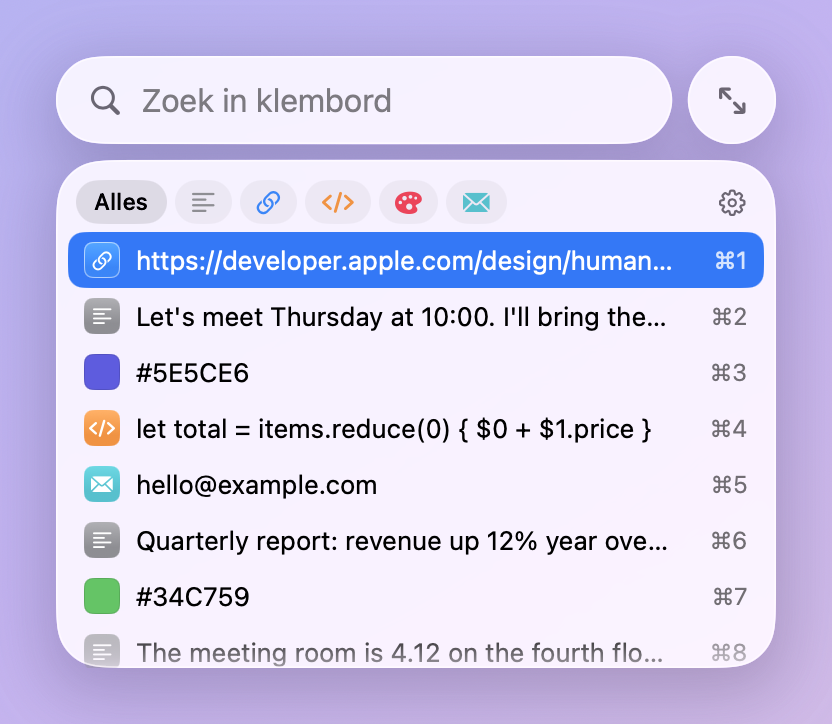
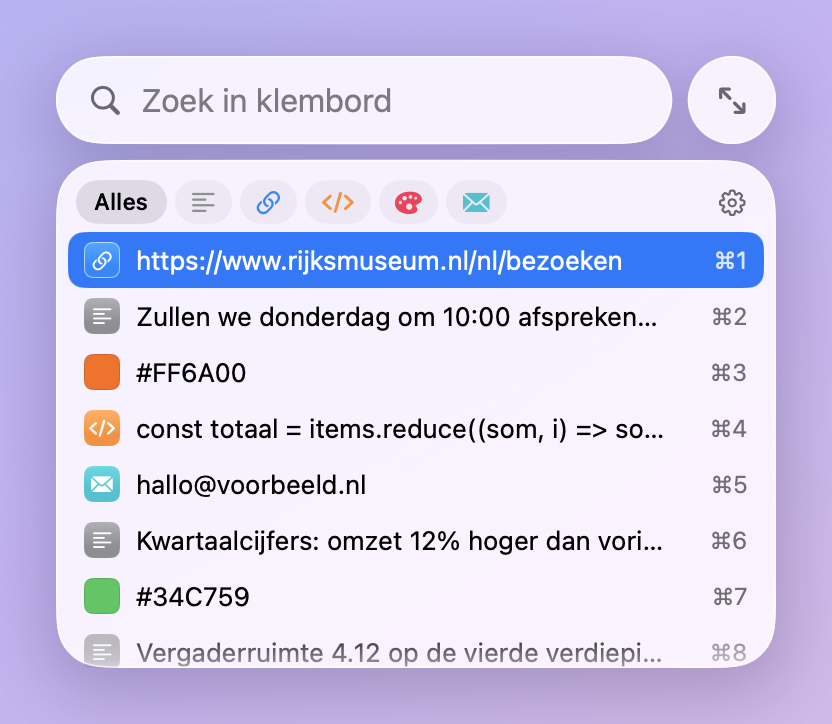
Dutch preview image with sample data; demo mode speaks Dutch too

diff --git a/Scripts/make-preview.swift b/Scripts/make-preview.swift
@@ -1,0 +1,104 @@
+// Composes docs/preview.nl.png: the collapsed and expanded popup side by side, plus the main features.
+// Run Scripts/screenshot.sh first, then: swift Scripts/make-preview.swift
+
+import AppKit
+
+let root = URL(fileURLWithPath: CommandLine.arguments[0]).deletingLastPathComponent().deletingLastPathComponent()
+let docs = root.appendingPathComponent("docs")
+guard let compact = NSImage(contentsOf: docs.appendingPathComponent("screenshot-compact.nl.png")),
+      let expanded = NSImage(contentsOf: docs.appendingPathComponent("screenshot-expanded.nl.png")),
+      let compactRep = compact.representations.first, let expandedRep = expanded.representations.first
+else { fatalError("Run Scripts/screenshot.sh first") }
+
+let W: CGFloat = 2600, H: CGFloat = 1960, pad: CGFloat = 140
+let rep = NSBitmapImageRep(bitmapDataPlanes: nil, pixelsWide: Int(W), pixelsHigh: Int(H), bitsPerSample: 8,
+                           samplesPerPixel: 4, hasAlpha: true, isPlanar: false, colorSpaceName: .deviceRGB,
+                           bytesPerRow: 0, bitsPerPixel: 0)!
+NSGraphicsContext.saveGraphicsState()
+NSGraphicsContext.current = NSGraphicsContext(bitmapImageRep: rep)
+
+// Top-left coordinates make the layout easier to read.
+func rect(_ x: CGFloat, _ y: CGFloat, _ w: CGFloat, _ h: CGFloat) -> NSRect { NSRect(x: x, y: H - y - h, width: w, height: h) }
+
+// Background: soft off-white with a faint lilac glow, like the screenshots' backdrop.
+NSColor(red: 0.965, green: 0.965, blue: 0.975, alpha: 1).setFill()
+NSRect(x: 0, y: 0, width: W, height: H).fill()
+let glowCenter = NSPoint(x: W / 2, y: H - 150)
+NSGradient(colors: [NSColor(red: 0.80, green: 0.78, blue: 1.0, alpha: 0.6), NSColor(red: 0.80, green: 0.78, blue: 1.0, alpha: 0)])!
+    .draw(fromCenter: glowCenter, radius: 0, toCenter: glowCenter, radius: 1100, options: [])
+
+func text(_ s: String, size: CGFloat, weight: NSFont.Weight, color: NSColor, at r: NSRect, align: NSTextAlignment = .left) {
+    let style = NSMutableParagraphStyle()
+    style.alignment = align
+    style.lineSpacing = size * 0.18
+    NSAttributedString(string: s, attributes: [.font: NSFont.systemFont(ofSize: size, weight: weight),
+                                               .foregroundColor: color, .paragraphStyle: style]).draw(in: r)
+}
+
+// Title
+if let icon = NSImage(contentsOf: root.appendingPathComponent("Resources/AppIcon.icns")) {
+    icon.draw(in: rect(W / 2 - 400, pad - 6, 132, 132))
+}
+text("Control+C", size: 100, weight: .bold, color: .black, at: rect(W / 2 - 250, pad + 2, 800, 130))
+text("Je klembordgeschiedenis, één sneltoets weg.", size: 46, weight: .regular,
+     color: NSColor(white: 0.35, alpha: 1), at: rect(0, pad + 170, W, 70), align: .center)
+
+// Screenshots: equal height, side by side, each in a rounded frame with a soft shadow.
+let shotH: CGFloat = 900, gap: CGFloat = 90, top: CGFloat = pad + 320
+let cw = shotH * CGFloat(compactRep.pixelsWide) / CGFloat(compactRep.pixelsHigh)
+let ew = shotH * CGFloat(expandedRep.pixelsWide) / CGFloat(expandedRep.pixelsHigh)
+let startX = (W - cw - gap - ew) / 2
+
+func framed(_ image: NSImage, _ r: NSRect) {
+    let path = NSBezierPath(roundedRect: r, xRadius: 36, yRadius: 36)
+    NSGraphicsContext.saveGraphicsState()
+    let shadow = NSShadow()
+    shadow.shadowColor = NSColor.black.withAlphaComponent(0.18)
+    shadow.shadowBlurRadius = 50
+    shadow.shadowOffset = NSSize(width: 0, height: -18)
+    shadow.set()
+    NSColor.white.setFill()
+    path.fill()
+    NSGraphicsContext.restoreGraphicsState()
+    NSGraphicsContext.saveGraphicsState()
+    path.addClip()
+    image.draw(in: r)
+    NSGraphicsContext.restoreGraphicsState()
+}
+
+framed(compact, rect(startX, top, cw, shotH))
+framed(expanded, rect(startX + cw + gap, top, ew, shotH))
+
+let labelColor = NSColor(white: 0.45, alpha: 1)
+text("Ingeklapt", size: 34, weight: .semibold, color: labelColor, at: rect(startX, top + shotH + 34, cw, 50), align: .center)
+text("Uitgeklapt  ·  Tab", size: 34, weight: .semibold, color: labelColor,
+     at: rect(startX + cw + gap, top + shotH + 34, ew, 50), align: .center)
+
+// Features: 3 × 2 grid of Settings-style glyphs with a title and one line.
+let features: [(String, NSColor, String, String)] = [
+    ("bolt.fill", .systemBlue, "Direct bij je cursor", "Druk ⌘↩ en de popup staat meteen onder je tekstcursor."),
+    ("text.viewfinder", .systemPurple, "Zoeken in screenshots", "Tekst in afbeeldingen wordt herkend, op je eigen Mac."),
+    ("square.grid.2x2.fill", .systemOrange, "Kleur per type", "Tekst, links, code, kleuren en e-mail, met filters."),
+    ("lock.fill", .systemGreen, "Privé", "Niets verlaat je Mac. Wachtwoorden worden overgeslagen."),
+    ("keyboard.fill", .systemPink, "Alles met het toetsenbord", "↩ plakt, ⌘1–9 kiest direct, ⌘⌫ verwijdert, ⌘Z herstelt."),
+    ("gearshape.fill", .systemGray, "Zoals jij het wilt", "Eigen sneltoets, bewaartermijn en uitgesloten apps."),
+]
+let gridTop = top + shotH + 150, colW = (W - pad * 2) / 3, rowH: CGFloat = 200
+for (i, f) in features.enumerated() {
+    let x = pad + CGFloat(i % 3) * colW + 30, y = gridTop + CGFloat(i / 3) * rowH
+    let box = rect(x, y, 96, 96)
+    let squircle = NSBezierPath(roundedRect: box, xRadius: 24, yRadius: 24)
+    NSGradient(colors: [f.1.blended(withFraction: 0.18, of: .white)!, f.1])!.draw(in: squircle, angle: -90)
+    let config = NSImage.SymbolConfiguration(pointSize: 44, weight: .semibold).applying(.init(paletteColors: [.white]))
+    if let glyph = NSImage(systemSymbolName: f.0, accessibilityDescription: nil)?.withSymbolConfiguration(config) {
+        let g = glyph.size
+        glyph.draw(in: NSRect(x: box.midX - g.width / 2, y: box.midY - g.height / 2, width: g.width, height: g.height))
+    }
+    text(f.2, size: 38, weight: .semibold, color: .black, at: rect(x + 130, y + 2, colW - 170, 52))
+    text(f.3, size: 30, weight: .regular, color: NSColor(white: 0.4, alpha: 1), at: rect(x + 130, y + 54, colW - 170, 90))
+}
+
+NSGraphicsContext.restoreGraphicsState()
+let out = docs.appendingPathComponent("preview.nl.png")
+try rep.representation(using: .png, properties: [:])!.write(to: out)
+print("Wrote \(out.path)")

diff --git a/Sources/Demo.swift b/Sources/Demo.swift
@@ -8,24 +8,36 @@ extension ClipStore {
     static var demoItems: [ClipItem] {
         let now = Date()
         func ago(_ minutes: Double) -> Date { now.addingTimeInterval(-minutes * 60) }
+        let dutch = Bundle.main.preferredLocalizations.first == "nl"
+        let messages = dutch ? "Berichten" : "Messages", notes = dutch ? "Notities" : "Notes"
+        func item(_ text: String, _ minutes: Double, _ bundleID: String, _ app: String) -> ClipItem {
+            ClipItem(text: text, date: ago(minutes), appBundleID: bundleID, appName: app)
+        }
+        if dutch {
+            return [
+                item("https://www.rijksmuseum.nl/nl/bezoeken", 0.2, "com.apple.Safari", "Safari"),
+                item("Zullen we donderdag om 10:00 afspreken? Ik neem het prototype mee.", 3, "com.apple.MobileSMS", messages),
+                item("#FF6A00", 8, "com.apple.Notes", notes),
+                item("const totaal = items.reduce((som, i) => som + i.prijs, 0);", 15, "com.apple.Terminal", "Terminal"),
+                item("hallo@voorbeeld.nl", 26, "com.apple.mail", "Mail"),
+                item("Kwartaalcijfers: omzet 12% hoger dan vorig jaar, vooral door de nieuwe abonnementen.", 42, "com.apple.Notes", notes),
+                item("#34C759", 60, "com.apple.Notes", notes),
+                item("Vergaderruimte 4.12 op de vierde verdieping, naast de koffieautomaat.", 95, "com.apple.MobileSMS", messages),
+                item("https://github.com/SvenwifAI/control-c", 130, "com.apple.Safari", "Safari"),
+                item("Tot morgen! Groetjes, Anne", 200, "com.apple.mail", "Mail"),
+            ]
+        }
         return [
-            ClipItem(text: "https://developer.apple.com/design/human-interface-guidelines/", date: ago(0.2),
-                     appBundleID: "com.apple.Safari", appName: "Safari"),
-            ClipItem(text: "Let's meet Thursday at 10:00. I'll bring the prototype.", date: ago(3),
-                     appBundleID: "com.apple.MobileSMS", appName: "Messages"),
-            ClipItem(text: "#5E5CE6", date: ago(8), appBundleID: "com.apple.Notes", appName: "Notes"),
-            ClipItem(text: "let total = items.reduce(0) { $0 + $1.price }", date: ago(15),
-                     appBundleID: "com.apple.Terminal", appName: "Terminal"),
-            ClipItem(text: "hello@example.com", date: ago(26), appBundleID: "com.apple.mail", appName: "Mail"),
-            ClipItem(text: "Quarterly report: revenue up 12% year over year, driven by the new subscription plans.",
-                     date: ago(42), appBundleID: "com.apple.Notes", appName: "Notes"),
-            ClipItem(text: "#34C759", date: ago(60), appBundleID: "com.apple.Notes", appName: "Notes"),
-            ClipItem(text: "The meeting room is 4.12 on the fourth floor, next to the coffee machine.", date: ago(95),
-                     appBundleID: "com.apple.MobileSMS", appName: "Messages"),
-            ClipItem(text: "https://github.com/SvenwifAI/control-c", date: ago(130),
-                     appBundleID: "com.apple.Safari", appName: "Safari"),
-            ClipItem(text: "func greet(_ name: String) -> String { \"Hello, \\(name)!\" }", date: ago(200),
-                     appBundleID: "com.apple.Terminal", appName: "Terminal"),
+            item("https://developer.apple.com/design/human-interface-guidelines/", 0.2, "com.apple.Safari", "Safari"),
+            item("Let's meet Thursday at 10:00. I'll bring the prototype.", 3, "com.apple.MobileSMS", messages),
+            item("#5E5CE6", 8, "com.apple.Notes", notes),
+            item("let total = items.reduce(0) { $0 + $1.price }", 15, "com.apple.Terminal", "Terminal"),
+            item("hello@example.com", 26, "com.apple.mail", "Mail"),
+            item("Quarterly report: revenue up 12% year over year, driven by the new subscription plans.", 42, "com.apple.Notes", notes),
+            item("#34C759", 60, "com.apple.Notes", notes),
+            item("The meeting room is 4.12 on the fourth floor, next to the coffee machine.", 95, "com.apple.MobileSMS", messages),
+            item("https://github.com/SvenwifAI/control-c", 130, "com.apple.Safari", "Safari"),
+            item("func greet(_ name: String) -> String { \"Hello, \\(name)!\" }", 200, "com.apple.Terminal", "Terminal"),
         ]
     }
 }

diff --git a/README.nl.md b/README.nl.md
@@ -1,4 +1,4 @@
-<p align="center"><img src="docs/screenshot-compact.nl.png" width="420" alt="Control+C"></p>
+<p align="center"><img src="docs/preview.nl.png" width="860" alt="Control+C: ingeklapt, uitgeklapt en de belangrijkste functies"></p>
 
 # Control+C
 
